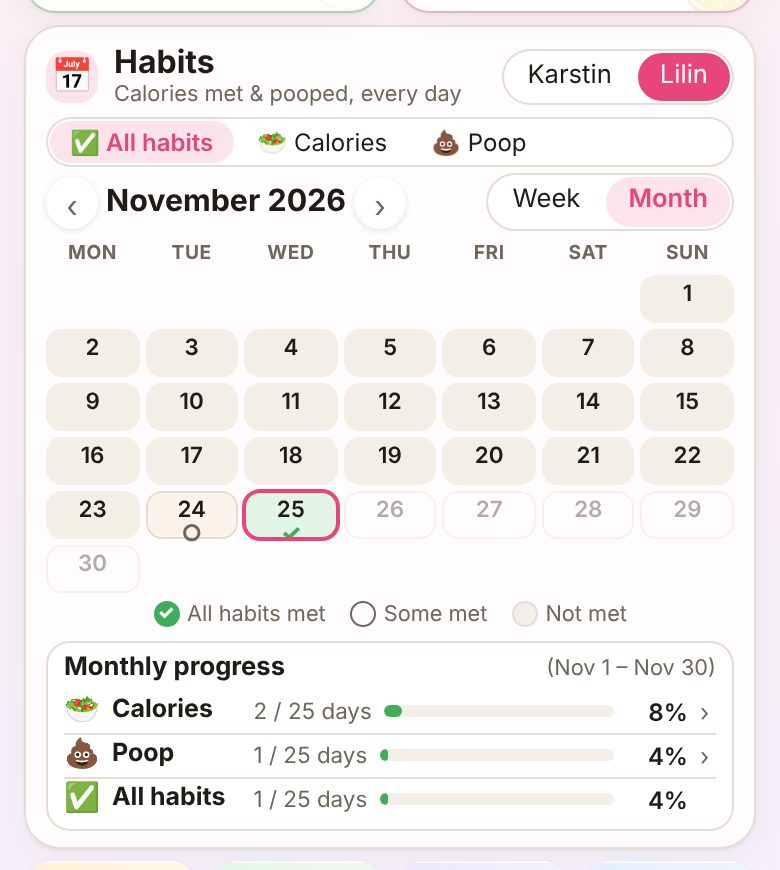
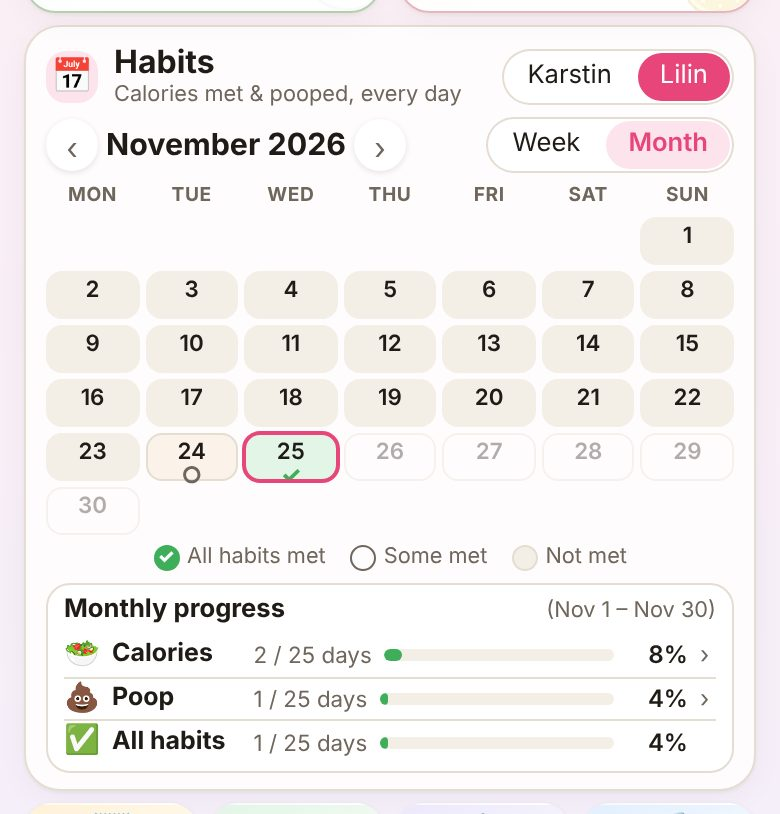
Habits: open a habit from the progress list, drop the switch
The All habits / Calories / Poop switch above the calendar is gone: tap
Calories or Poop in the progress list to see that habit on its own, and ‹
(in place of the 📅 icon) to go back to all habits.

Claude-Session: https://claude.ai/code/session_01KGaSeqBZzEPJimoKXXuGSj

diff --git a/public/home.js b/public/home.js
@@ -112,7 +112,8 @@ const mondayOf = (iso) => shift(iso, -((new Date(`${iso}T00:00:00Z`).getUTCDay()
 const fmtD = (iso, o) => new Date(`${iso}T00:00:00Z`).toLocaleDateString("en-US", { ...o, timeZone: "UTC" });
 let calWho = null, calMonth = localToday().slice(0, 7), calWeek = mondayOf(localToday()), calPick = null;
 let calMode = store.get("home.calMode") === "week" ? "week" : "month";
-// Which habit the calendar shows: "all" (✓ both kept, ○ one), or one habit on its own
+// Which habit the calendar shows: "all" (✓ both kept, ○ one), or one habit on its own, picked
+// by tapping it in the progress list (‹ goes back)
 // (✓ met, ✕ not met, grey not logged) with its own totals underneath.
 let calCat = "all";
 const CATS = {
@@ -159,7 +160,7 @@ function renderCal() {
   $("#habitsTitle").closest(".habits").dataset.mode = calMode;
 
   const cat = CATS[calCat];
-  for (const r of document.querySelectorAll('input[name="calCat"]')) r.checked = r.value === calCat;
+  $("#calBack").hidden = calCat === "all";
   $("#habIcon").textContent = cat.icon;
   $("#habitsTitle").textContent = cat.name;
   $("#habSub").textContent = cat.sub;
@@ -216,7 +217,7 @@ function renderCalDay() {
 }
 
 $("#calWho").addEventListener("change", (e) => { calWho = e.target.value; renderCal(); });
-$("#calCat").addEventListener("change", (e) => { calCat = e.target.value; renderCal(); });
+$("#calBack").addEventListener("click", () => { calCat = "all"; renderCal(); });
 $("#progList").addEventListener("click", (e) => { const b = e.target.closest("[data-cat]"); if (b) { calCat = b.dataset.cat; renderCal(); } });
 $("#calMode").addEventListener("change", (e) => {
   calMode = e.target.value; store.set("home.calMode", calMode);

diff --git a/public/index.html b/public/index.html
@@ -41,14 +41,10 @@
 
     <section class="panel home-cal habits" aria-labelledby="habitsTitle">
       <div class="hab-top">
+        <button type="button" class="icon-btn round-btn hab-back" id="calBack" aria-label="Back to all habits" hidden>‹</button>
         <span class="hab-icon" id="habIcon" aria-hidden="true">📅</span>
         <div class="hab-name"><h2 id="habitsTitle">Habits</h2><p id="habSub">Calories met &amp; pooped, every day</p></div>
         <div class="seg pill-seg" id="calWho" role="radiogroup" aria-label="Whose habits"></div>
-      </div>
-      <div class="seg pill-seg hab-cats" id="calCat" role="radiogroup" aria-label="Which habit">
-        <label><input type="radio" name="calCat" value="all" checked /><span>✅ All habits</span></label>
-        <label><input type="radio" name="calCat" value="cals" /><span>🥗 Calories</span></label>
-        <label><input type="radio" name="calCat" value="poop" /><span>💩 Poop</span></label>
       </div>
       <div class="hab-bar">
         <div class="cal-head">

diff --git a/public/style.css b/public/style.css
@@ -1474,9 +1474,8 @@ dialog.shot-dlg p { margin: 8px 0 0; }
 .home-page .app-nav a.active span { background: var(--hp-pink-soft); }
 
 /* Habits: one habit at a time (✓ met, ✕ not met, grey not logged) and its totals */
-.home-page .hab-cats { align-self: start; }
-.home-page .hab-cats label span { padding: 2px 10px; font-size: 0.75rem; }
-.home-page .hab-cats input:checked + span { background: var(--hp-pink-soft); color: var(--hp-pink); font-weight: 600; }
+.home-page .hab-back { width: 26px; height: 26px; min-width: 26px; font-size: 1.1rem; }
+.home-page .hab-back[hidden] { display: none; }
 .home-page .cal-day.st-met { background: var(--hp-green-soft); border-color: color-mix(in srgb, var(--hp-green) 25%, transparent); }
 .home-page .cal-day.st-met .cal-tick { color: var(--hp-green); }
 .home-page .cal-day.st-miss { background: color-mix(in srgb, #e05a5a 14%, var(--surface)); border-color: color-mix(in srgb, #e05a5a 30%, transparent); }

diff --git a/public/new/features.js b/public/new/features.js
@@ -12,7 +12,7 @@ export const FEATURES = [
     date: "2026-11-25",
     app: "🏠 Home",
     title: "Habits: a ✓ when both are done",
-    why: "The home calendar ticks a day when calories stayed within the goal and you pooped (○ when only one), switches between week and month, and shows how many days each habit was kept. Tap 🥗 Calories or 💩 Poop to see one habit on its own: ✓ met, ✕ not met, with its success rate.",
+    why: "The home calendar ticks a day when calories stayed within the goal and you pooped (○ when only one), switches between week and month, and shows how many days each habit was kept. Tap Calories or Poop in the progress list to see one habit on its own: ✓ met, ✕ not met, with its success rate.",
   },
   {
     id: "home-redesign",

diff --git a/README.md b/README.md
@@ -3,7 +3,7 @@
 Shared, live-updating apps hosted on Netlify. The home page (https://japan-trip-budget.netlify.app/) is for everyday use:
 
 - **Quick add:** 💸 Expense (with a Shared switch inside), 🍽 Food, ⚖ Weight and 🚽 Poop each open the right app straight into its dialog, then come back to the home page with a confirmation. Exercise, income and payments are added from inside their apps.
-- **📅 Habits:** a calendar on the home page for Karstin or Lilin (toggle at the top), by week or month. A day gets ✓ when both habits were kept (calories within the goal and a poop logged), ○ when one was, and stays grey otherwise. Underneath, Monthly (or Weekly) progress shows how many days so far each habit was kept, and both together. Tap a habit there, or ✅ All habits / 🥗 Calories / 💩 Poop above the calendar, to see one habit on its own: ✓ met, ✕ not met, grey not logged, with Met / Not met / Not logged / Success rate totals. ‹ › changes the period, and tapping a day shows its calories, toilet visits and spending.
+- **📅 Habits:** a calendar on the home page for Karstin or Lilin (toggle at the top), by week or month. A day gets ✓ when both habits were kept (calories within the goal and a poop logged), ○ when one was, and stays grey otherwise. Underneath, Monthly (or Weekly) progress shows how many days so far each habit was kept, and both together. Tap a habit there to see it on its own (‹ goes back): ✓ met, ✕ not met, grey not logged, with Met / Not met / Not logged / Success rate totals. ‹ › changes the period, and tapping a day shows its calories, toilet visits and spending.
 - **✨ What's new:** the ✨ button at the top right of the home page lists the latest features, newest first. Features you can understand from a picture show a screenshot (tap to enlarge) with where to find it; the rest have a ▶ Watch walkthrough that opens the real pages and spotlights each button in turn, with Play/Pause, Back, Next and 1x/2x (the player in `public/tour/tour.js` is adapted from the portfolio demos' product tour). Walkthroughs only open forms and switch tabs, never save. A feature stays marked New, and the ✨ button keeps a red dot, until its screenshot or walkthrough is opened or you tap **✓ Mark all as read**. To add a feature, put it at the top of `public/new/features.js` with either a `shot` (in `public/new/img/`) or a walkthrough in `public/tour/tours.js` under the same id.
 - **Our apps:** a tab per app, opened with a tap. 💸 Expenses shows each person's spending this month and today, shared spending and who owes whom. 🥗 Food & fitness shows each person's calories left today and weight. 🗾 Japan trip links to the budget and journal. Each tab has links into its app.
 
